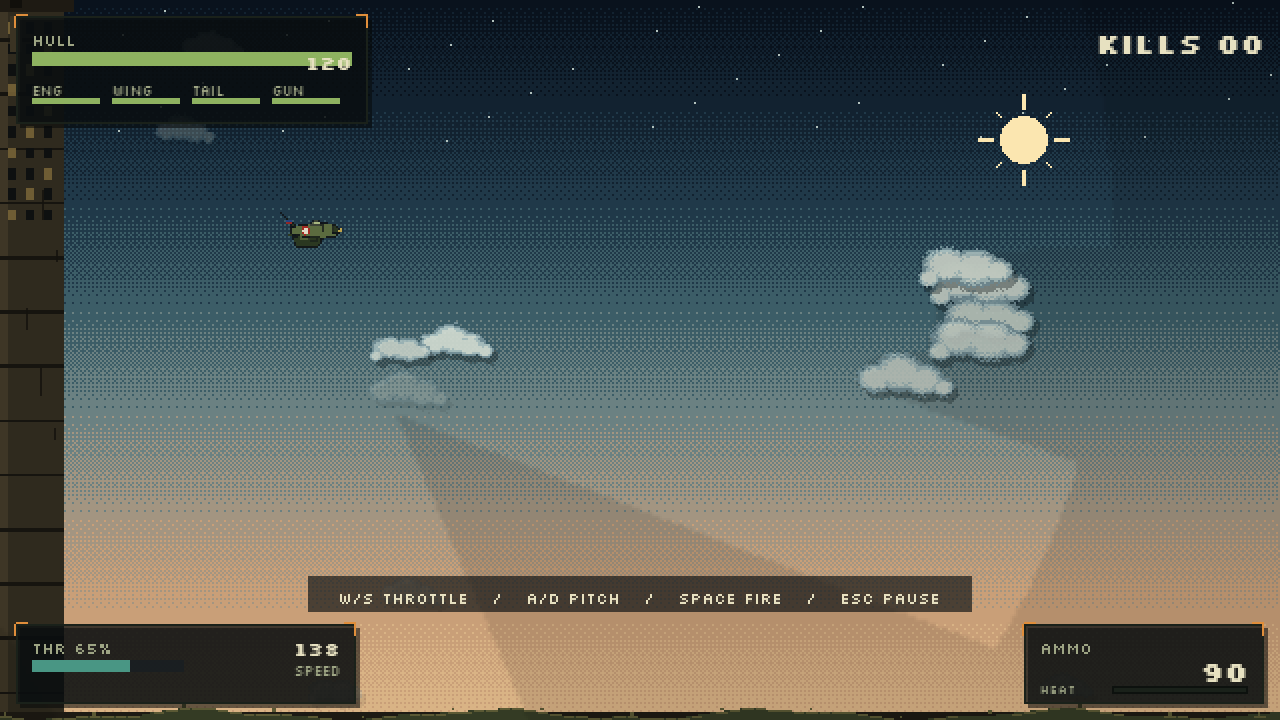
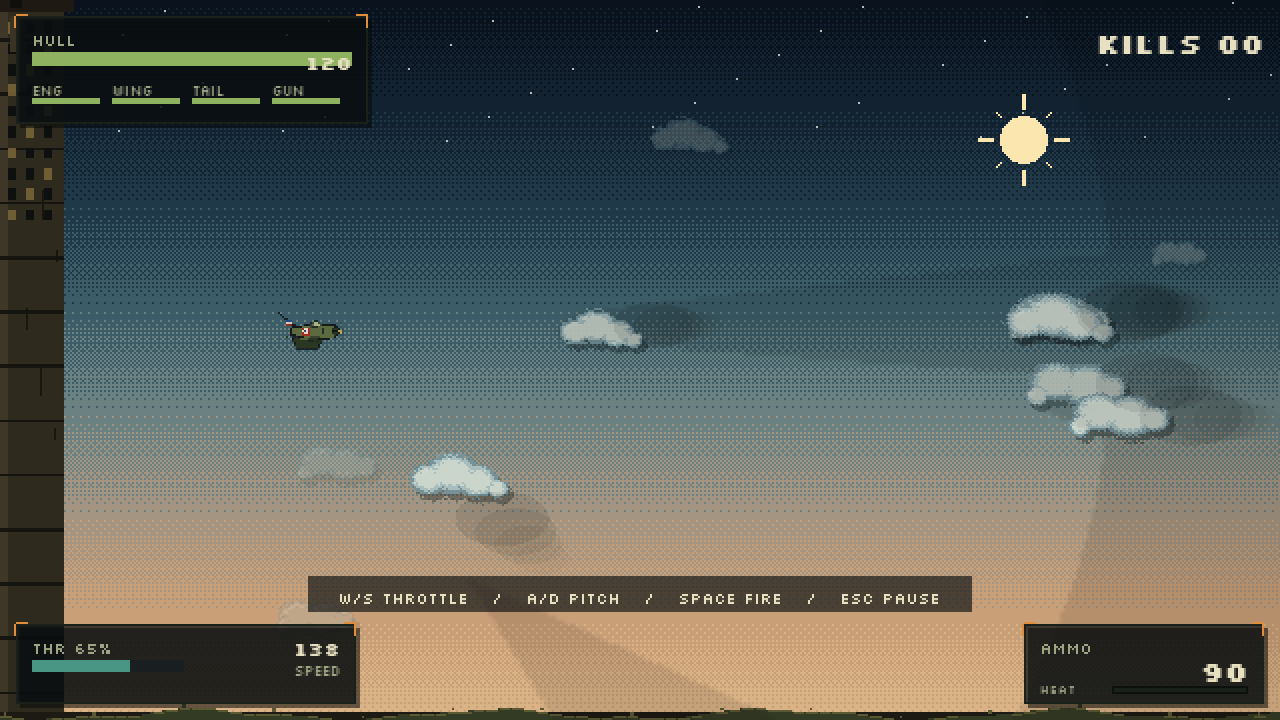
Add soft per-cloud shadow caps and prepare 0.2.5

diff --git a/README.md b/README.md
@@ -229,5 +229,5 @@ docs/                      screenshots and debugging guide
 
 ## Status
 
-Version **0.2.4**. The game is in active playtesting: flight feel, network
+Version **0.2.5**. The game is in active playtesting: flight feel, network
 visibility, respawns, gun heat and room lifecycle are the current focus.
